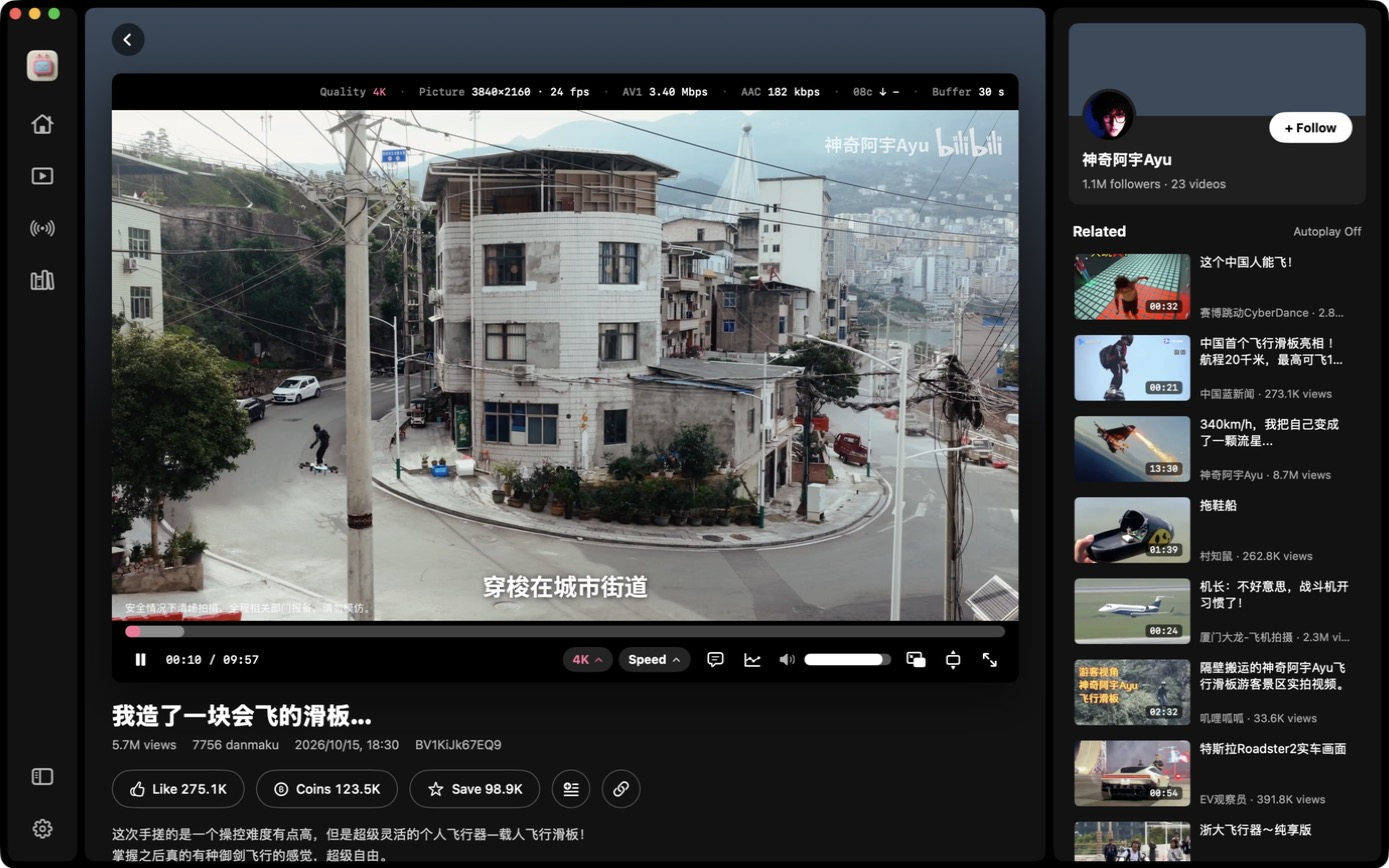
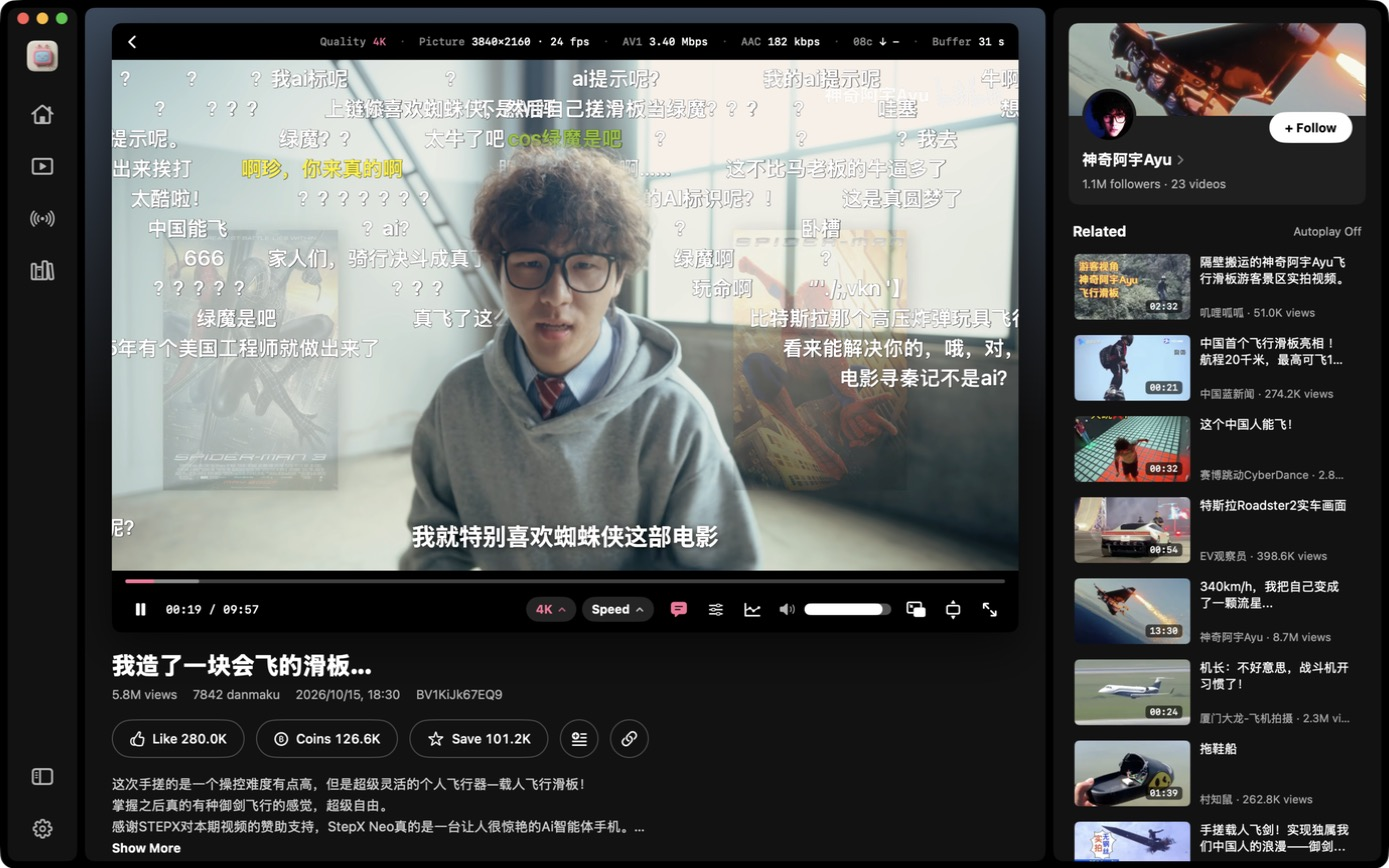
README: new screenshots and download instructions; build.sh --dmg
- 21 screenshots (zh / en / ja): home, light mode, danmaku passing
  behind people, the danmaku panel, a creator page, settings, featured
- Install section: download the DMG from Releases, how to open an
  ad-hoc-signed app the first time, and building from source
- build.sh takes --install / --run / --universal / --dmg; --dmg makes
  a universal DMG without extended attributes
- Danmaku panel labels fit on one line in English and Japanese
- Creator video list retries once more after a rate limit

diff --git a/Sources/BiliMac/DanmakuPanel.swift b/Sources/BiliMac/DanmakuPanel.swift
@@ -6,6 +6,10 @@ struct DanmakuSettingsButton: View {
     /// The player is always dark; the bottom bar follows the app's appearance.
     var inPlayer = true
     @State private var open = false
+    init(inPlayer: Bool = true) {
+        self.inPlayer = inPlayer
+        _open = State(initialValue: inPlayer && Env.openDanmakuPanel)
+    }
     @State private var hover = false
 
     var body: some View {
@@ -68,7 +72,8 @@ struct DanmakuPanel: View {
     private func slider(_ title: String, _ value: Binding<Double>, _ range: ClosedRange<Double>,
                         _ format: @escaping (Double) -> String) -> some View {
         HStack(spacing: 12) {
-            Text(title).font(.system(size: 12.5)).foregroundStyle(Theme.text2).frame(width: 64, alignment: .leading)
+            Text(title).font(.system(size: 12.5)).foregroundStyle(Theme.text2)
+                .lineLimit(1).minimumScaleFactor(0.85).frame(width: 88, alignment: .leading)
             ThinSlider(value: Binding(get: { (value.wrappedValue - range.lowerBound) / (range.upperBound - range.lowerBound) },
                                       set: { value.wrappedValue = range.lowerBound + $0 * (range.upperBound - range.lowerBound) }))
                 .frame(height: 16)
@@ -96,12 +101,13 @@ struct DanmakuFilterEditor: View {
             HStack(spacing: 12) {
                 VStack(alignment: .leading, spacing: 2) {
                     Text(L("屏蔽等级")).font(.system(size: 12.5, weight: .semibold)).foregroundStyle(Theme.text2)
+                        .lineLimit(1).minimumScaleFactor(0.85)
                     if !compact {
                         Text(L("按 B 站给每条弹幕的评分隐藏低质量弹幕，等级越高屏蔽越多"))
                             .font(.system(size: 11.5)).foregroundStyle(Theme.text3)
                     }
                 }
-                .frame(width: compact ? 64 : nil, alignment: .leading)
+                .frame(width: compact ? 88 : nil, alignment: .leading)
                 if !compact { Spacer() }
                 ThinSlider(value: Binding(get: { Double(s.danmakuLevel) / 10 },
                                           set: { s.danmakuLevel = Int(($0 * 10).rounded()) }))

diff --git a/Sources/BiliMac/BiliAPI.swift b/Sources/BiliMac/BiliAPI.swift
@@ -539,9 +539,14 @@ actor BiliAPI {
         do {
             d = try await anonymousGet(base, params)
         } catch {
-            log("space \(mid) archives (anonymous) failed: \(error); retrying with cookies")
-            try await Task.sleep(for: .milliseconds(600))
-            d = try await get(base, params)
+            log("space \(mid) archives (anonymous) failed: \(error); retrying")
+            do {
+                try await Task.sleep(for: .milliseconds(600))
+                d = try await get(base, params)
+            } catch {
+                try await Task.sleep(for: .seconds(2))
+                d = try await anonymousGet(base, params)
+            }
         }
         let items = d.arr("archives").compactMap(VideoCard.archive)
         return (items, page * 30 < (d.obj("page")?.int("total") ?? 0))

diff --git a/Sources/BiliMac/Util.swift b/Sources/BiliMac/Util.swift
@@ -16,6 +16,8 @@ enum Env {
     static let pinChrome = e["BILIMAC_PIN_CHROME"] != nil
     /// Pretend the pointer hovers the progress bar at this fraction (screenshots / checks), e.g. 0.4.
     static let scrubHover = e["BILIMAC_SCRUB_HOVER"].flatMap(Double.init)
+    /// Open the player's danmaku panel on launch (screenshots / checks).
+    static let openDanmakuPanel = e["BILIMAC_DANMAKU_PANEL"] != nil
     /// Open UP 主主页 on a tab: videos | collections (screenshots / checks).
     static let spaceTab = e["BILIMAC_SPACE_TAB"]
     /// Window content size, e.g. 1440x900.

diff --git a/README.zh-CN.md b/README.zh-CN.md
@@ -14,11 +14,13 @@ BiliMac 用 SwiftUI 从零写成，不是网页套壳。播放走系统的 AVPla
 
 ## 截图
 
-| 首页 | 视频页 |
+| 首页 | 浅色模式 |
 |---|---|
-| ![首页](docs/screenshots/zh-Hans-home.jpg) | ![视频页](docs/screenshots/zh-Hans-video.jpg) |
-
-![设置](docs/screenshots/zh-Hans-settings.jpg)
+| ![首页](docs/screenshots/zh-Hans-home.jpg) | ![浅色模式](docs/screenshots/zh-Hans-light.jpg) |
+| **视频页：弹幕从人身后穿过** | **弹幕设置与屏蔽** |
+| ![视频页](docs/screenshots/zh-Hans-video.jpg) | ![弹幕面板](docs/screenshots/zh-Hans-danmaku.jpg) |
+| **UP 主主页** | **设置：线路测速与画质策略** |
+| ![UP 主主页](docs/screenshots/zh-Hans-space.jpg) | ![设置](docs/screenshots/zh-Hans-settings.jpg) |
 
 ## 功能
 
@@ -54,7 +56,22 @@ BiliMac 用 SwiftUI 从零写成，不是网页套壳。播放走系统的 AVPla
 
 ## 安装
 
-需要 macOS 14 或更高版本，以及 Xcode 或 Xcode Command Line Tools（`xcode-select --install`）。
+需要 macOS 14 或更高版本，Apple 芯片和 Intel 都支持。
+
+### 直接下载
+
+1. 在 [Releases](https://github.com/Dime2015/BiliMac/releases/latest) 下载 `BiliMac-x.y.z.dmg`，打开后把 BiliMac 拖进「应用程序」。
+2. BiliMac 没有 Apple 开发者证书（只有 ad-hoc 签名），第一次打开时 macOS 会提示无法验证开发者。这时：
+   - 打开 系统设置 → 隐私与安全性，在页面下方找到 BiliMac 的提示，点「仍要打开」并确认；
+   - 或者在终端里运行一次：
+
+     ```bash
+     xattr -dr com.apple.quarantine /Applications/BiliMac.app
+     ```
+
+### 从源码构建
+
+需要 Xcode 或 Xcode Command Line Tools（`xcode-select --install`）。
 
 ```bash
 git clone https://github.com/Dime2015/BiliMac.git
@@ -62,7 +79,7 @@ cd BiliMac
 ./build.sh --install
 ```
 
-`./build.sh` 会生成 `build/BiliMac.app`；加上 `--install` 会同时复制到 `/Applications`。应用是本地 ad-hoc 签名的，自己构建的版本可以直接打开。
+`./build.sh` 生成 `build/BiliMac.app`；`--install` 同时复制到 `/Applications`；`--dmg` 生成 Apple 芯片 + Intel 通用版的 `build/BiliMac-<版本>.dmg`。自己构建的版本可以直接打开。
 
 ## 快捷键
 

diff --git a/README.md b/README.md
@@ -14,11 +14,13 @@ BiliMac is written from scratch in SwiftUI — not a web wrapper. Playback goes 
 
 ## Screenshots
 
-| Home | Video |
+| Home | Light mode |
 |---|---|
-| ![Home](docs/screenshots/en-home.jpg) | ![Video](docs/screenshots/en-video.jpg) |
-
-![Settings](docs/screenshots/en-settings.jpg)
+| ![Home](docs/screenshots/en-home.jpg) | ![Light mode](docs/screenshots/en-light.jpg) |
+| **Video page: danmaku pass behind people** | **Danmaku settings & filters** |
+| ![Video](docs/screenshots/en-video.jpg) | ![Danmaku panel](docs/screenshots/en-danmaku.jpg) |
+| **Creator page** | **Settings: route speed test and quality strategy** |
+| ![Creator page](docs/screenshots/en-space.jpg) | ![Settings](docs/screenshots/en-settings.jpg) |
 
 ## Features
 
@@ -54,7 +56,22 @@ BiliMac is written from scratch in SwiftUI — not a web wrapper. Playback goes 
 
 ## Install
 
-Requires macOS 14 or later and Xcode or the Xcode Command Line Tools (`xcode-select --install`).
+Requires macOS 14 or later, on Apple Silicon or Intel.
+
+### Download
+
+1. Get `BiliMac-x.y.z.dmg` from [Releases](https://github.com/Dime2015/BiliMac/releases/latest), open it and drag BiliMac into Applications.
+2. BiliMac has no Apple Developer ID (it is only ad-hoc signed), so on first launch macOS says it can't verify the developer. Then either:
+   - open System Settings → Privacy & Security, find the BiliMac message near the bottom, click **Open Anyway** and confirm; or
+   - run this once in Terminal:
+
+     ```bash
+     xattr -dr com.apple.quarantine /Applications/BiliMac.app
+     ```
+
+### Build from source
+
+Requires Xcode or the Xcode Command Line Tools (`xcode-select --install`).
 
 ```bash
 git clone https://github.com/Dime2015/BiliMac.git
@@ -62,7 +79,7 @@ cd BiliMac
 ./build.sh --install
 ```
 
-`./build.sh` produces `build/BiliMac.app`; `--install` also copies it to `/Applications`. The app is ad-hoc signed on your machine, so a build you made yourself opens normally.
+`./build.sh` produces `build/BiliMac.app`; `--install` also copies it to `/Applications`; `--dmg` builds a universal (Apple Silicon + Intel) `build/BiliMac-<version>.dmg`. A build you made yourself opens normally.
 
 ## Keyboard shortcuts
 
